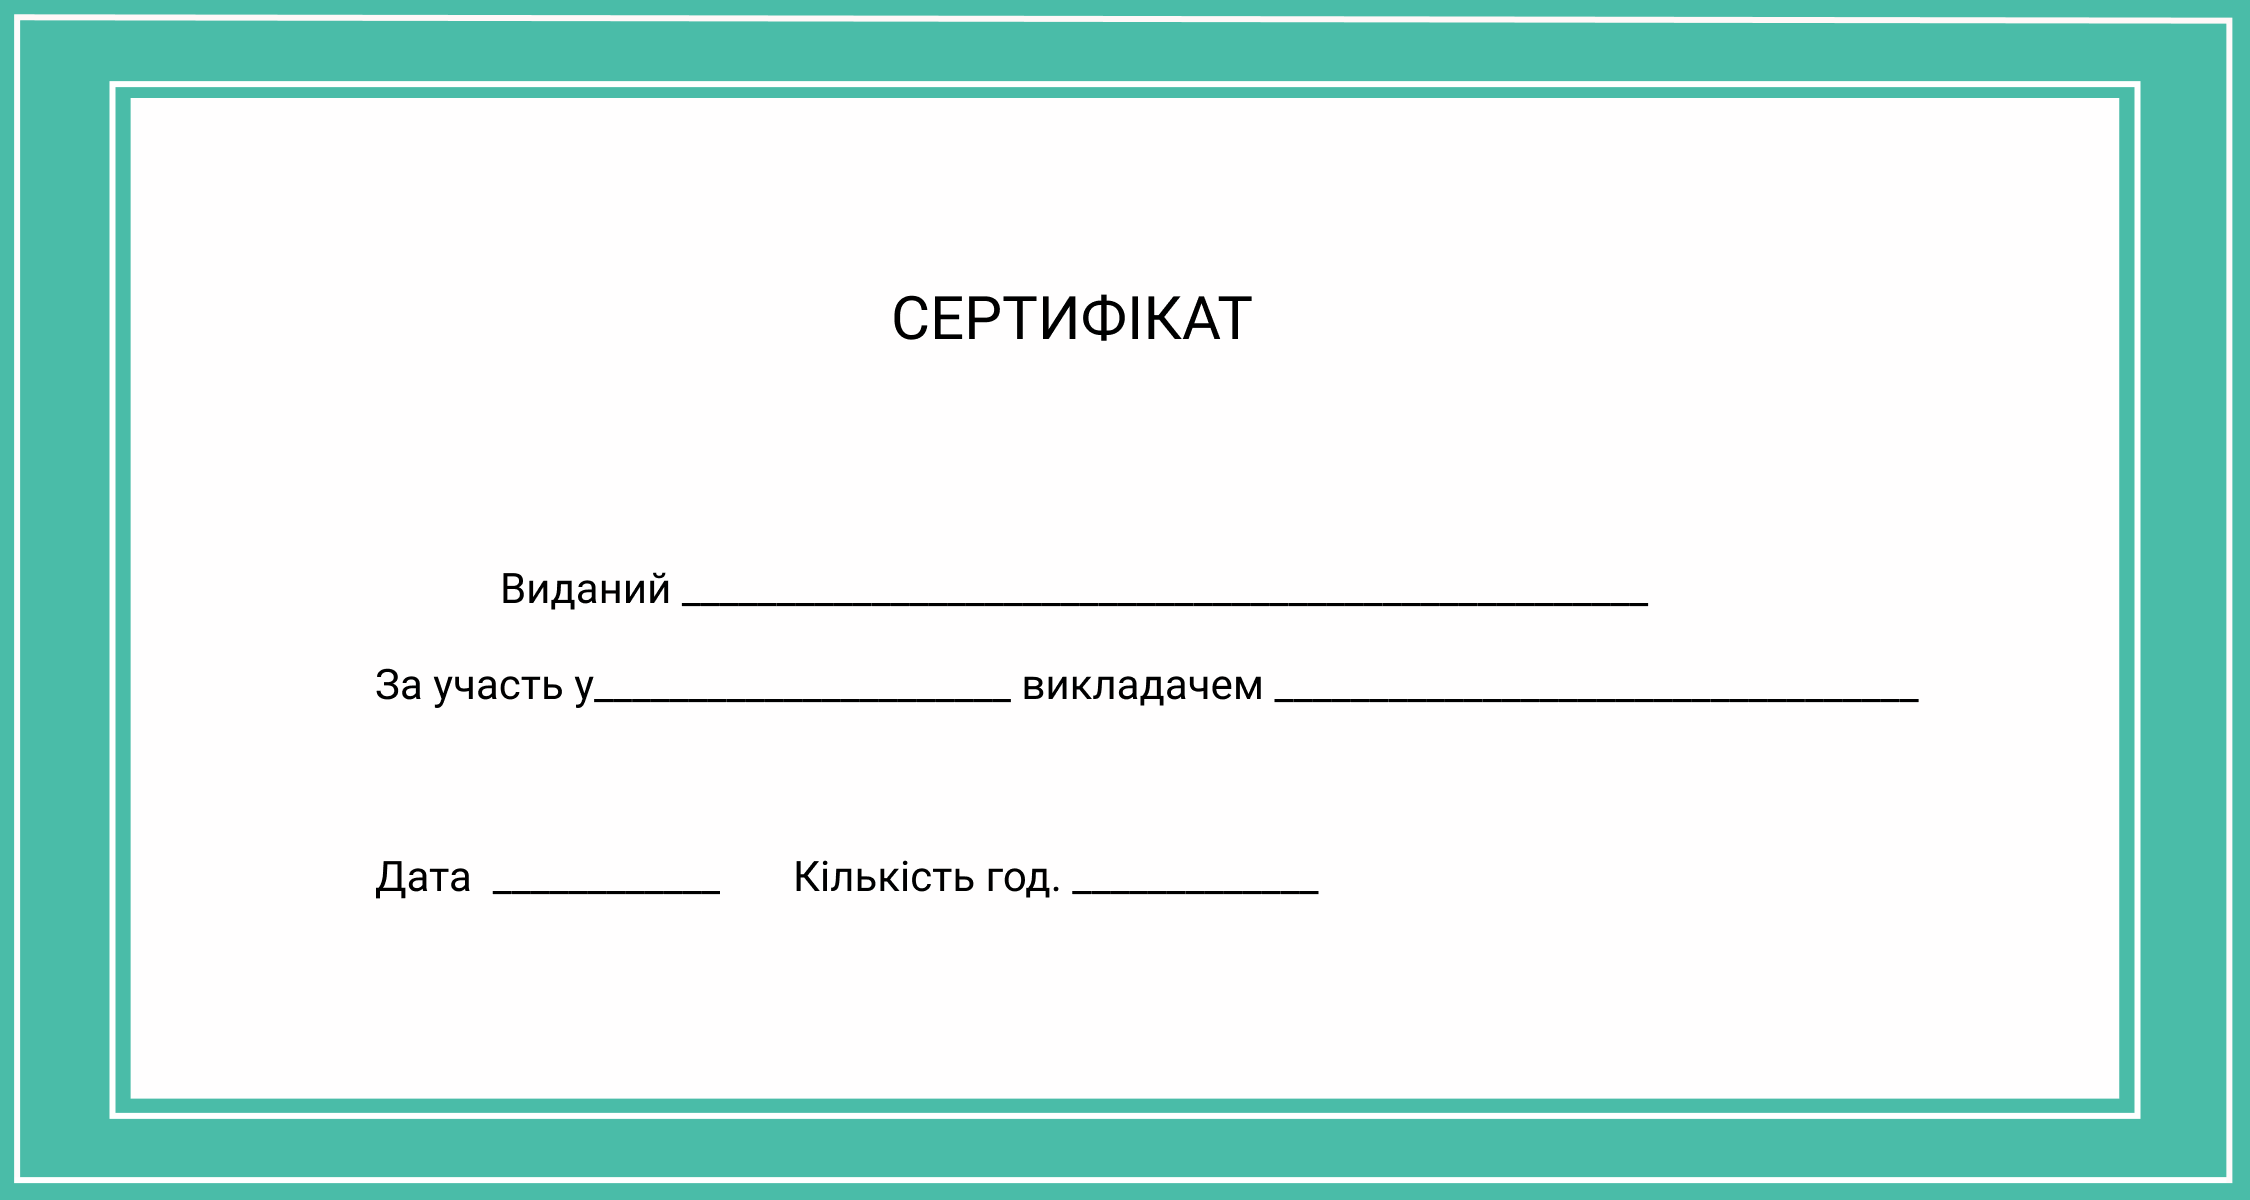
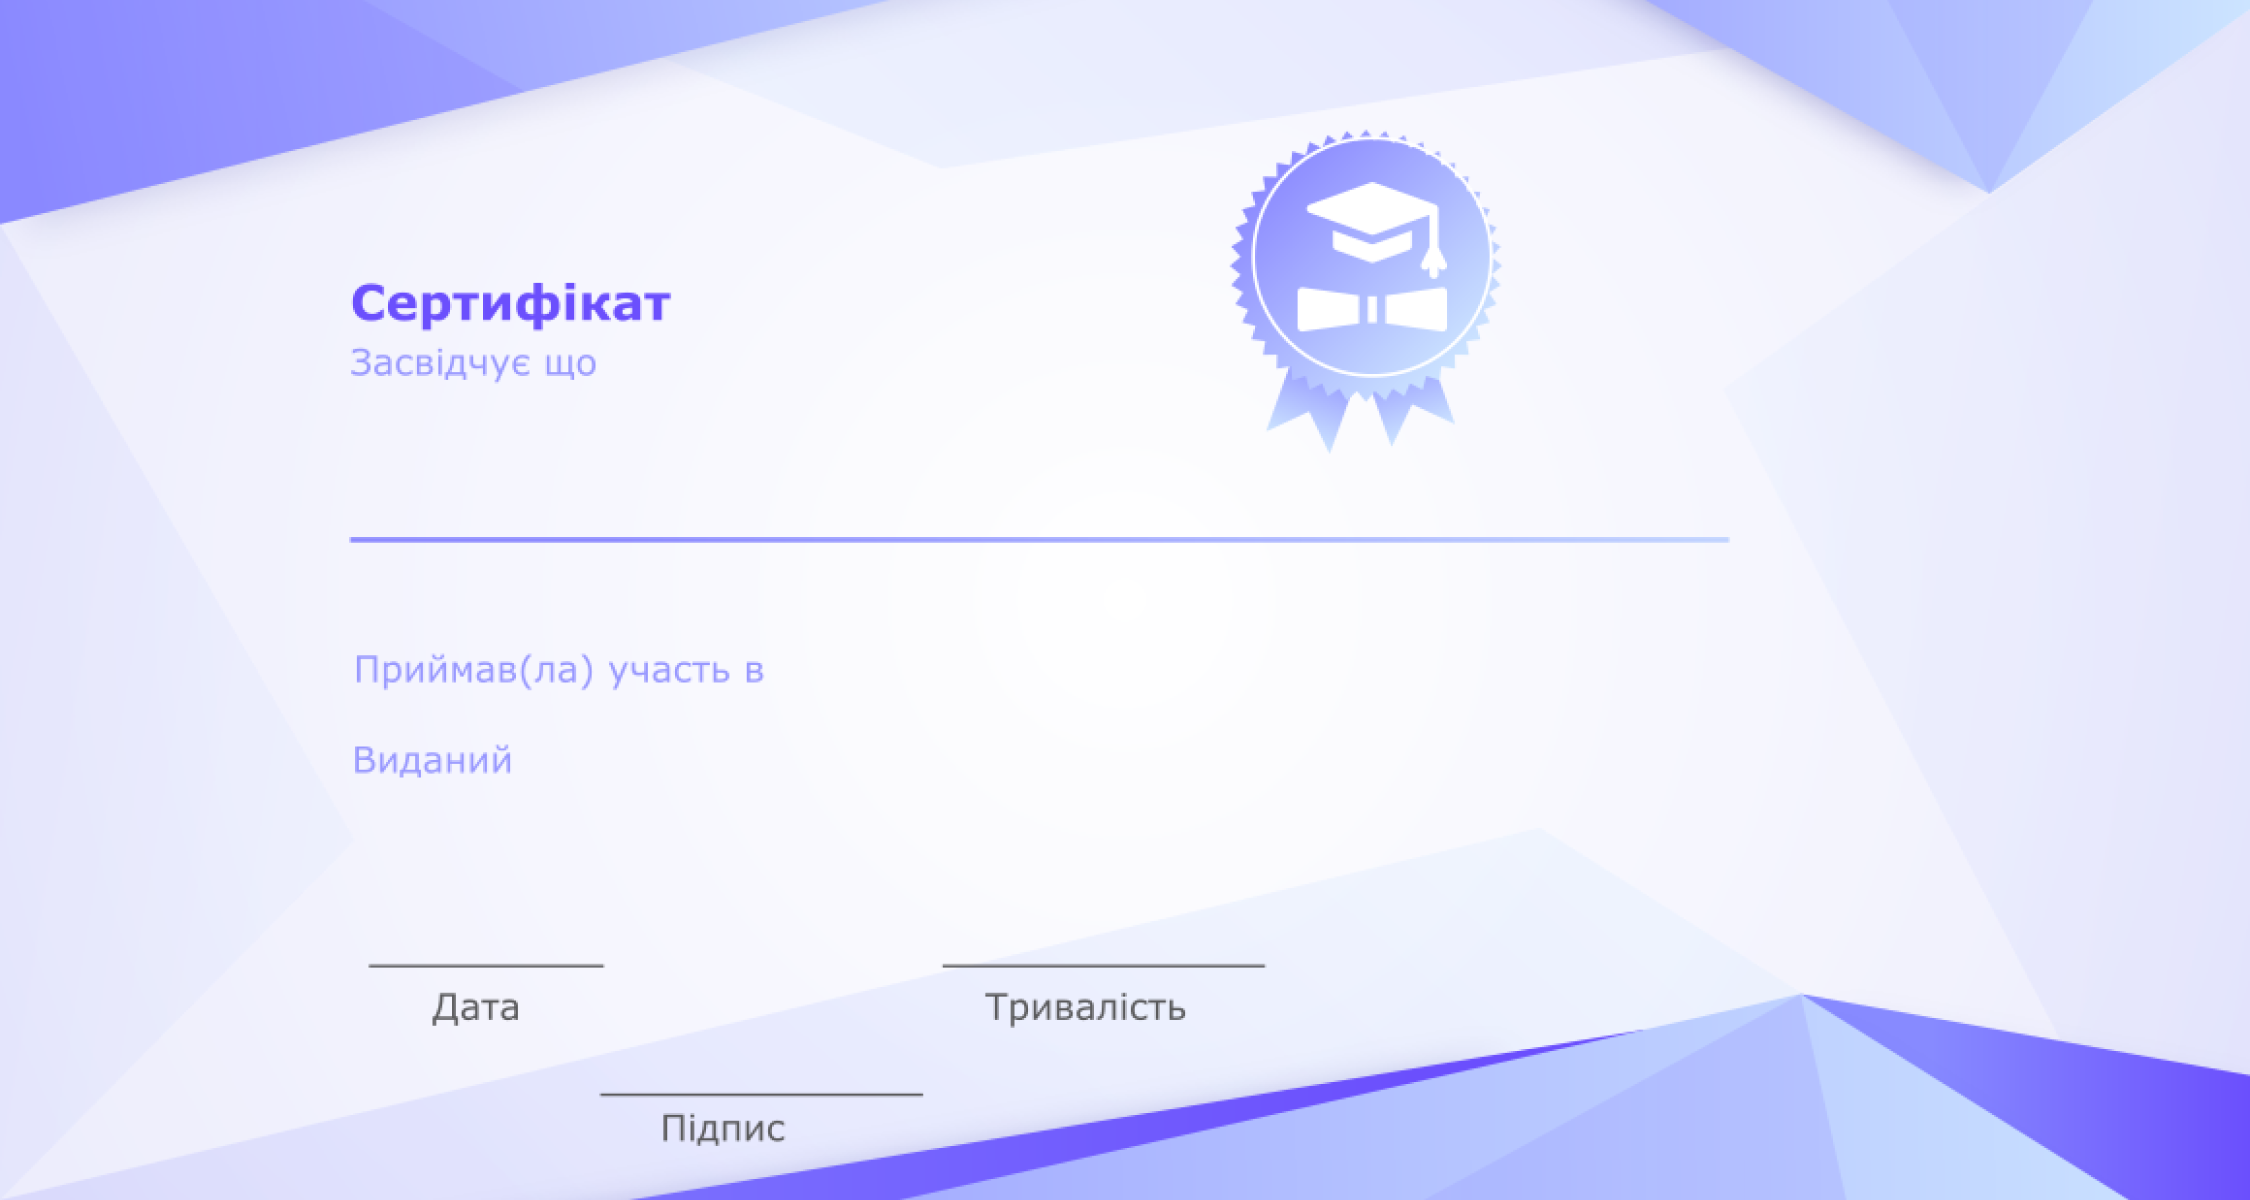
change templates and update form

diff --git a/src/style.css b/src/style.css
@@ -243,152 +243,152 @@ header {
 
 .template1 .student-temp {
   position: absolute;
-  left: 42%;
-  bottom: 49%;
+  left: 46%;
+  bottom: 45%;
 }
 
 .template1 .title-temp {
   position: absolute;
-  left: 39%;
-  bottom: 41%;
+  left: 48%;
+  bottom: 28%;
 }
 
 .template1 .teacher-temp {
   position: absolute;
-  left: 68%;
-  bottom: 41%;
+  left: 40%;
+  bottom: 13%;
 }
 
 .template1 .date-temp {
   position: absolute;
-  left: 33%;
-  bottom: 25%;
+  left: 48%;
+  bottom: 5%;
 }
 
 .template1 .duration-temp {
   position: absolute;
-  left: 57%;
-  bottom: 25%;
+  left: 62%;
+  bottom: 13%;
 }
 
 .template2 .student-temp {
   position: absolute;
-  left: 32%;
-  bottom: 49%;
+  left: 21%;
+  bottom: 54%;
 }
 
 .template2 .title-temp {
   position: absolute;
-  left: 29%;
-  bottom: 41%;
+  left: 36%;
+  bottom: 42%;
 }
 
 .template2 .teacher-temp {
   position: absolute;
-  left: 57%;
-  bottom: 41%;
+  left: 25%;
+  bottom: 34%;
 }
 
 .template2 .date-temp {
   position: absolute;
-  left: 23%;
-  bottom: 25%;
+  left: 20%;
+  bottom: 19%;
 }
 
 .template2 .duration-temp {
   position: absolute;
-  left: 49%;
-  bottom: 25%;
+  left: 48%;
+  bottom: 19%;
 }
 
 .template3 .student-temp {
   position: absolute;
-  left: 31%;
-  bottom: 49%;
+  left: 15%;
+  bottom: 51%;
 }
 
 .template3 .title-temp {
   position: absolute;
-  left: 26%;
-  bottom: 41%;
+  left: 13%;
+  bottom: 33%;
 }
 
 .template3 .teacher-temp {
   position: absolute;
-  left: 60%;
-  bottom: 41%;
+  left: 17%;
+  bottom: 18%;
 }
 
 .template3 .date-temp {
   position: absolute;
-  left: 47%;
-  bottom: 25%;
+  left: 41%;
+  bottom: 16%;
 }
 
 .template3 .duration-temp {
   position: absolute;
-  left: 76%;
-  bottom: 25%;
+  left: 65%;
+  bottom: 18%;
 }
 
 .template4 .student-temp {
   position: absolute;
-  left: 43%;
-  bottom: 49%;
+  left: 45.5%;
+  bottom: 56%;
 }
 
 .template4 .title-temp {
   position: absolute;
-  left: 44%;
-  bottom: 41%;
+  left: 47.5%;
+  bottom: 38%;
 }
 
 .template4 .teacher-temp {
   position: absolute;
-  left: 68%;
-  bottom: 41%;
+  left: 40%;
+  bottom: 10%;
 }
 
 .template4 .date-temp {
   position: absolute;
-  left: 33%;
-  bottom: 25%;
+  left: 57%;
+  bottom: 10%;
 }
 
 .template4 .duration-temp {
   position: absolute;
-  left: 54%;
-  bottom: 25%;
+  left: 47%;
+  bottom: 27%;
 }
 
 .template5 .student-temp {
   position: absolute;
-  left: 30%;
-  bottom: 49%;;
+  left: 57%;
+  bottom: 51%;
 }
 
 .template5 .title-temp {
   position: absolute;
-  left: 31%;
-  bottom: 41%;
+  left: 33%;
+  bottom: 32%;
 }
 
 .template5 .teacher-temp {
   position: absolute;
-  left: 57%;
-  bottom: 41%;
+  left: 42%;
+  bottom: 18%;
 }
 
 .template5 .date-temp {
   position: absolute;
-  left: 51%;
-  bottom: 25%;
+  left: 77%;
+  bottom: 33%;
 }
 
 .template5 .duration-temp {
   position: absolute;
-  left: 71%;
-  bottom: 25%;
+  left: 75%;
+  bottom: 18%;
 }
 
 .template6 .student-temp {
@@ -453,62 +453,62 @@ header {
 
 .template8 .student-temp {
   position: absolute;
-  left: 31%;
-  bottom: 52%;
+  left: 21%;
+  bottom: 54%;
 }
 
 .template8 .title-temp {
   position: absolute;
-  left: 33%;
-  bottom: 44%;
+  left: 34%;
+  bottom: 35%;
 }
 
 .template8 .teacher-temp {
   position: absolute;
-  left: 57%;
-  bottom: 44%;
+  left: 26%;
+  bottom: 41.5%;
 }
 
 .template8 .date-temp {
   position: absolute;
-  left: 23%;
-  bottom: 28%;
+  left: 20%;
+  bottom: 20%;
 }
 
 .template8 .duration-temp {
   position: absolute;
-  left: 45%;
-  bottom: 28%;
+  left: 48%;
+  bottom: 20%;
 }
 
 .template9 .student-temp {
   position: absolute;
-  left: 30%;
-  bottom: 52%;
+  left: 45%;
+  bottom: 45%;
 }
 
 .template9 .title-temp {
   position: absolute;
-  left: 26%;
-  bottom: 44%;
+  left: 47%;
+  bottom: 28%;
 }
 
 .template9 .teacher-temp {
   position: absolute;
-  left: 56%;
-  bottom: 44%;
+  left: 40%;
+  bottom: 14%;
 }
 
 .template9 .date-temp {
   position: absolute;
-  left: 23%;
-  bottom: 28%;
+  left: 49%;
+  bottom: 5%;
 }
 
 .template9 .duration-temp {
   position: absolute;
-  left: 48%;
-  bottom: 28%;
+  left: 62%;
+  bottom: 14%;
 }
 
 .visible {

diff --git a/src/index.html b/src/index.html
@@ -48,8 +48,8 @@
                   <label for="title" class="col-form-label">Назва заходу (участь в):</label>
                   <input type="text" id="title" class="form-control"/>
 
-                  <label for="duration" class="col-form-label">Тривалість (години):</label>
-                  <input type="number" min="1" id="duration" class="form-control"/>
+                  <label for="duration" class="col-form-label">Тривалість (Наприклад: 1 година):</label>
+                  <input type="text" id="duration" class="form-control"/>
 
                   <label for="surname-teacher" class="col-form-label">Прізвище та ініцали викладача:</label>
                   <input type="text" id="surname-teacher" class="form-control"/>
@@ -111,11 +111,6 @@
                 <div>
                   <div class="image">
                     <img src="img/template8.png" data-src="img/template8.png" data-class="template8"/>
-                  </div>
-                </div>
-                <div>
-                  <div class="image">
-                    <img src="img/template6.png" data-src="img/template6.png" data-class="template6"/>
                   </div>
                 </div>
               </div>

diff --git a/src/script.js b/src/script.js
@@ -76,16 +76,17 @@ function generateCertificate() {
          return;
      }
 
+     const regexNum = /^[a-zA-Zа-яА-Я0-9\s]+$/;
+     if (!regexNum.test(course.duration)) {
+         alert("В тривалість вводьте тільки число та букви. Наприклад: 1 год");
+         return;
+     }
+
      if (!participants.names.every(name => name)) {
          alert("Поля з учасниками повинні всі бути заповненні");
          return;
      }
 
-
-    if (course.duration <= 0) {
-        alert("Тривалість курсу має бути додатнім числом");
-        return;
-    }
 
     if (studentCount.count < 1) {
         alert("Мінімальна кількість студентів повинна бути 1");
